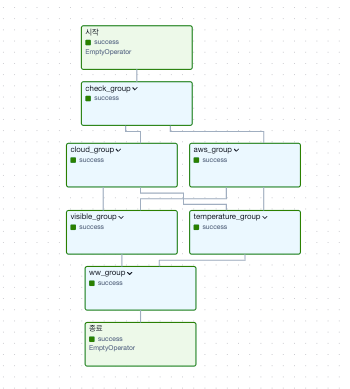
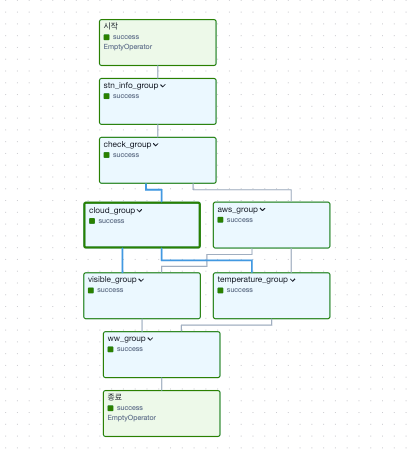
지점번호 수집 코드 작성, 테이블 생성 코드 변경, 리드미 재작성

Changed region(s): [[0.1714, 0.0308, 0.8571, 0.9563], [0.8571, 0.5553, 0.8857, 0.6478], [0.8571, 0.401, 0.8857, 0.4627]]

diff --git a/aws_bins/stn_info.py b/aws_bins/stn_info.py
@@ -1,0 +1,79 @@
+import requests
+import pandas as pd
+from airflow.models.param import ParamsDict
+from database.connection import mariadb_connection
+from sqlalchemy.orm import sessionmaker
+from database.schema import AwsStnInfo
+import numpy as np
+import time
+from requests.exceptions import RequestException
+from aws_bins.collector import response_data
+
+
+def stn_info_data(task_id, **kwargs):
+    def process_case(case):
+        # 공백을 기준으로 문자열을 분리하고, 빈 문자열을 제거
+        split_case = list(filter(None, case.split(' ')))
+
+        # 한국어명 이후에 영어명이 두 단어인 특이 케이스 처리
+        if len(split_case) == 14:  # 특이 케이스는 총 15개의 항목이 됨
+            split_case[9] = ' '.join(split_case[9:11])  # 'Gangjin Gun' 처리
+            del split_case[10]  # 중복된 부분 제거
+
+        return split_case
+
+    check_table = kwargs["task_instance"].xcom_pull(task_ids=task_id, key='check_table')
+
+    print(check_table)
+
+    if check_table:
+        print('Table is Exists')
+    else:
+        p: ParamsDict = kwargs["params"]
+        auth_key = p["serviceKey"]
+        conn_id = p['conn_id']
+
+        params = {
+            'authKey': auth_key,
+            'help': 0,
+            'inf': 'AWS'
+        }
+        url = "https://apihub.kma.go.kr/api/typ01/url/stn_inf.php?"
+        columns = ["STN_ID", "LON", "LAT", "STN_SP", "HT", "HT_WD", "LAU_ID", "STN_AD", "STN_KO", "STN_EN", "FCT_ID",
+                   "LAW_ID", "BASIN"]
+
+        max_retries = 3
+        delay = 5
+
+        for attempt in range(max_retries):
+            try:
+                content_data = response_data(url, params)
+            except RequestException as e:
+                if attempt == max_retries - 1:
+                    raise
+                print(f"Attempt {attempt + 1} failed: {e}. Retrying in {delay} seconds...")
+                time.sleep(delay)
+
+        df = pd.DataFrame([process_case(d.replace(" *", "").strip()) for d in content_data], columns=columns)
+
+        try:
+            engine = mariadb_connection(conn_id)
+            session_ = sessionmaker(bind=engine)
+            session = session_()
+
+            data = df.to_dict("records")
+
+            for n, r in enumerate(data):
+                for key, value in data[n].items():
+                    if isinstance(value, float) and np.isnan(value):
+                        data[n][key] = None
+
+            for d in data:
+                session.add(AwsStnInfo(**d))
+
+            session.commit()
+            session.close()
+
+        except Exception as e:
+            session.rollback()
+            raise IOError(f'삽입 실패! : {e}')

diff --git a/kma_api_collector.py b/kma_api_collector.py
@@ -9,9 +9,9 @@ from airflow.models.param import Param
 from functools import partial
 
 from task_util import create_data_collection_group
-from aws_bins import common_task
+from aws_bins import common_task, stn_info_data
 from airflow.models.baseoperator import cross_downstream
-from database import checking_stn_id
+from database import checking_stn_id, check_and_create_table
 from airflow.operators.python import PythonOperator
 from airflow.utils.task_group import TaskGroup
 
@@ -47,6 +47,24 @@ with DAG(
         }
 ) as dag:
     start, end = common_task()
+    with TaskGroup(group_id=f'stn_info_group', tooltip=f'지점 번호 삽입') as stn_info_group:
+        table_exists_create = PythonOperator(
+            task_id='table_exists_create',
+            python_callable=check_and_create_table,
+            provide_context=True,
+
+            op_kwargs={
+                'kind': 'info'
+            }
+        )
+
+        stn_info = PythonOperator(
+            task_id='stn_data_insert',
+            python_callable=stn_info_data,
+            op_kwargs={'task_id': 'stn_info_group.table_exists_create'}
+        )
+
+        table_exists_create >> stn_info
 
     with TaskGroup(group_id=f'check_group', tooltip=f'지점 번호 확인') as check_group:
         for stn in target_stn:
@@ -64,7 +82,8 @@ with DAG(
     temperature_group = collector('temperature')(dag)
     ww_group = collector('ww')(dag)
 
-    start >> check_group
+    start >> stn_info_group >> check_group
     cross_downstream(check_group, [aws_group, cloud_group])
     cross_downstream([aws_group, cloud_group], [visible_group, temperature_group])
     [visible_group, temperature_group] >> ww_group >> end
+

diff --git a/aws_bins/collector.py b/aws_bins/collector.py
@@ -78,15 +78,17 @@ def kma_api_data(stn, kind: str = 'aws', **kwargs):
         try:
             url = api_urls.get(kind, None)
             columns = column_dict.get(kind, None)
+
             if url is None:
                 raise ValueError('choose aws, cloud, temperature')
+
+            content_data = response_data(url, params)
         except RequestException as e:
             if attempt == max_retries - 1:
                 raise
             print(f"Attempt {attempt + 1} failed: {e}. Retrying in {delay} seconds...")
             time.sleep(delay)
 
-    content_data = response_data(url, params)
     df = create_dataframe(content_data, columns)
 
     print(df)

diff --git a/readme.md b/readme.md
@@ -19,12 +19,16 @@
 ![img.png](img.png)
 ### 신버전
 ![img_3.png](img_3.png)
+
+
 ![img_4.png](img_4.png)
 
 ------
 
 ## 개선점 및 문제점
 connection을 param에 넣어서 유동적으로 넣을수 있도록 함 (conn_id 지정 완료)
+
+AWS의 지점 번호도 자동으로 수집하여 데이터베이스에 삽입함. (테이블이 있을 시 삽입 안함)
 
 데이터베이스 삽입코드에 중복처리는 있긴하지만, Celery를 도입하여 중복 실행을 막아야함. (Celery 도입)
 
@@ -40,6 +44,10 @@ airflow에서 지원하는 도커파일은 기본적으로 celery execute지만 
 
 한번에 많은 api를 수집 시 무작위로 한 곳에서 failed가 생김. 이를 해결하기 위해선 한번에 수행하는 양을 줄이며 연속적으로 수행하는 거임
 
+지점번호가 3개 이상일 경우 아래 사진과 같이 running에서 멈추는 오류가 있음. 사양이 높아 워커를 여러개 사용하지 아니하다면 지점번호는 **2**개를 권장함.
+(m1 max 16gb 사양에선 worker가 2개로 구동할 수 있음 (각 worker 램 제한 2기가))
+
+![img_6.png](img_6.png)
 
 **현재 dag는 현재시간을 기준으로 하며, catchup을 True로 하여도 지나간 데이터는 수집하지 않음**
 
